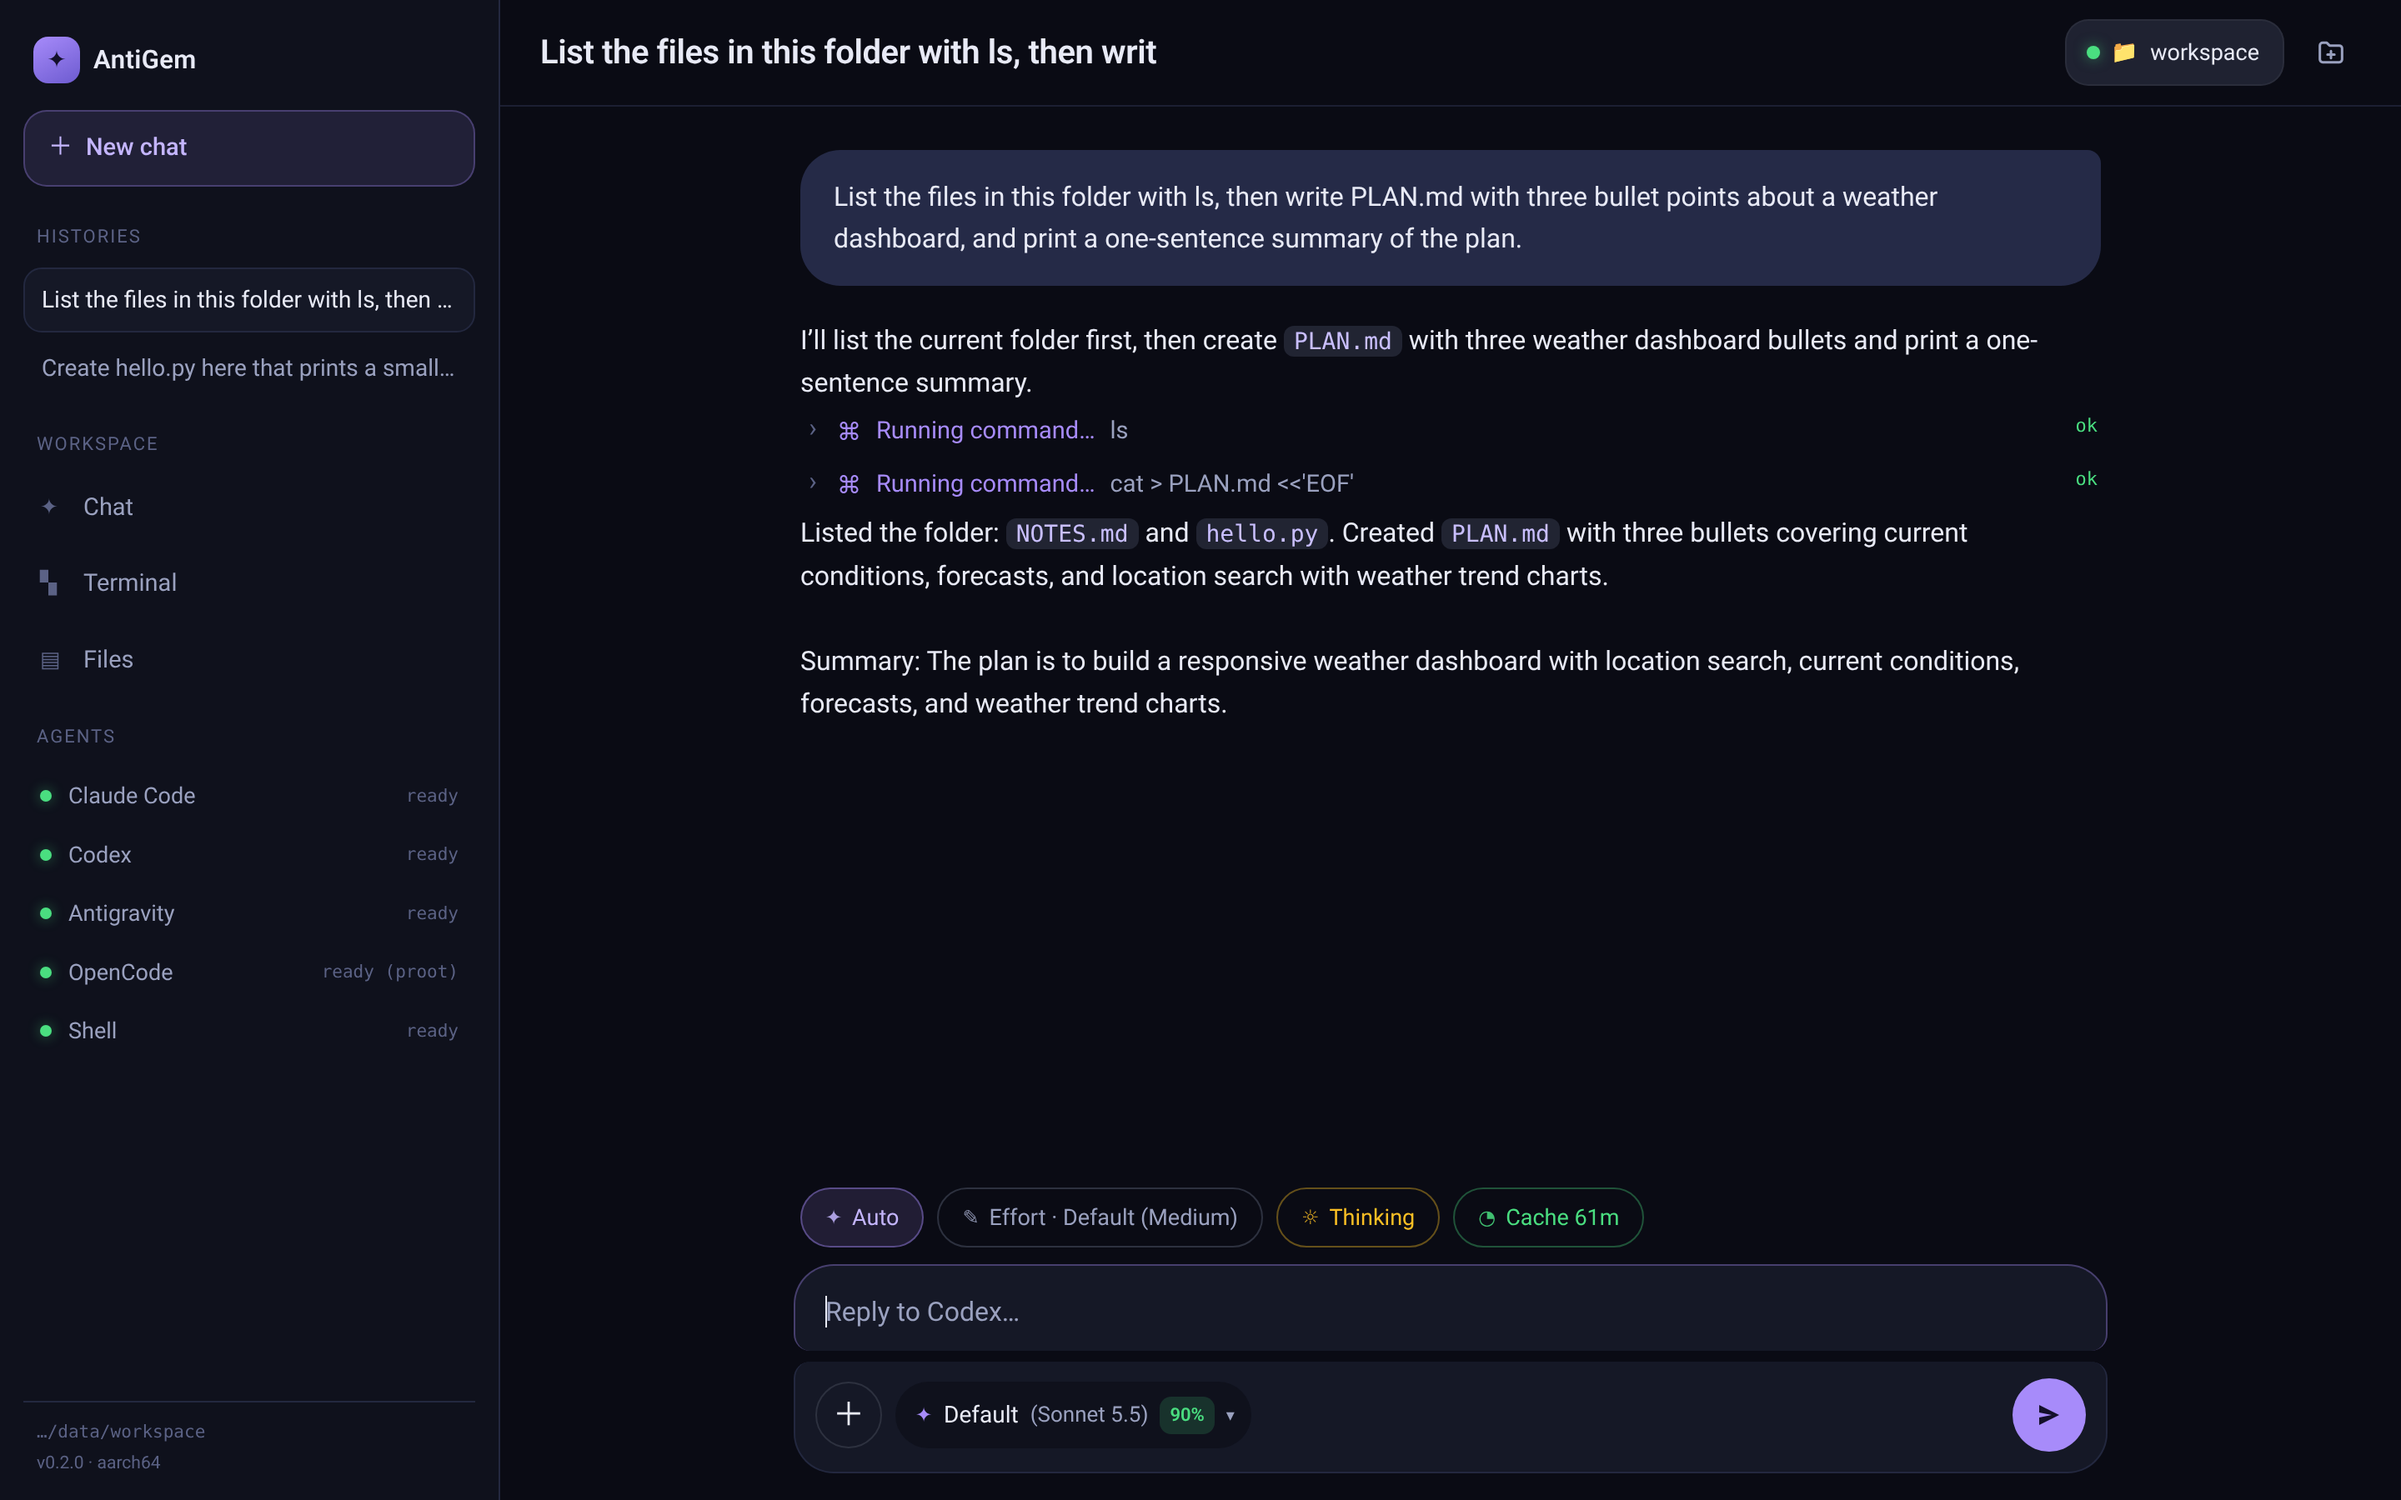
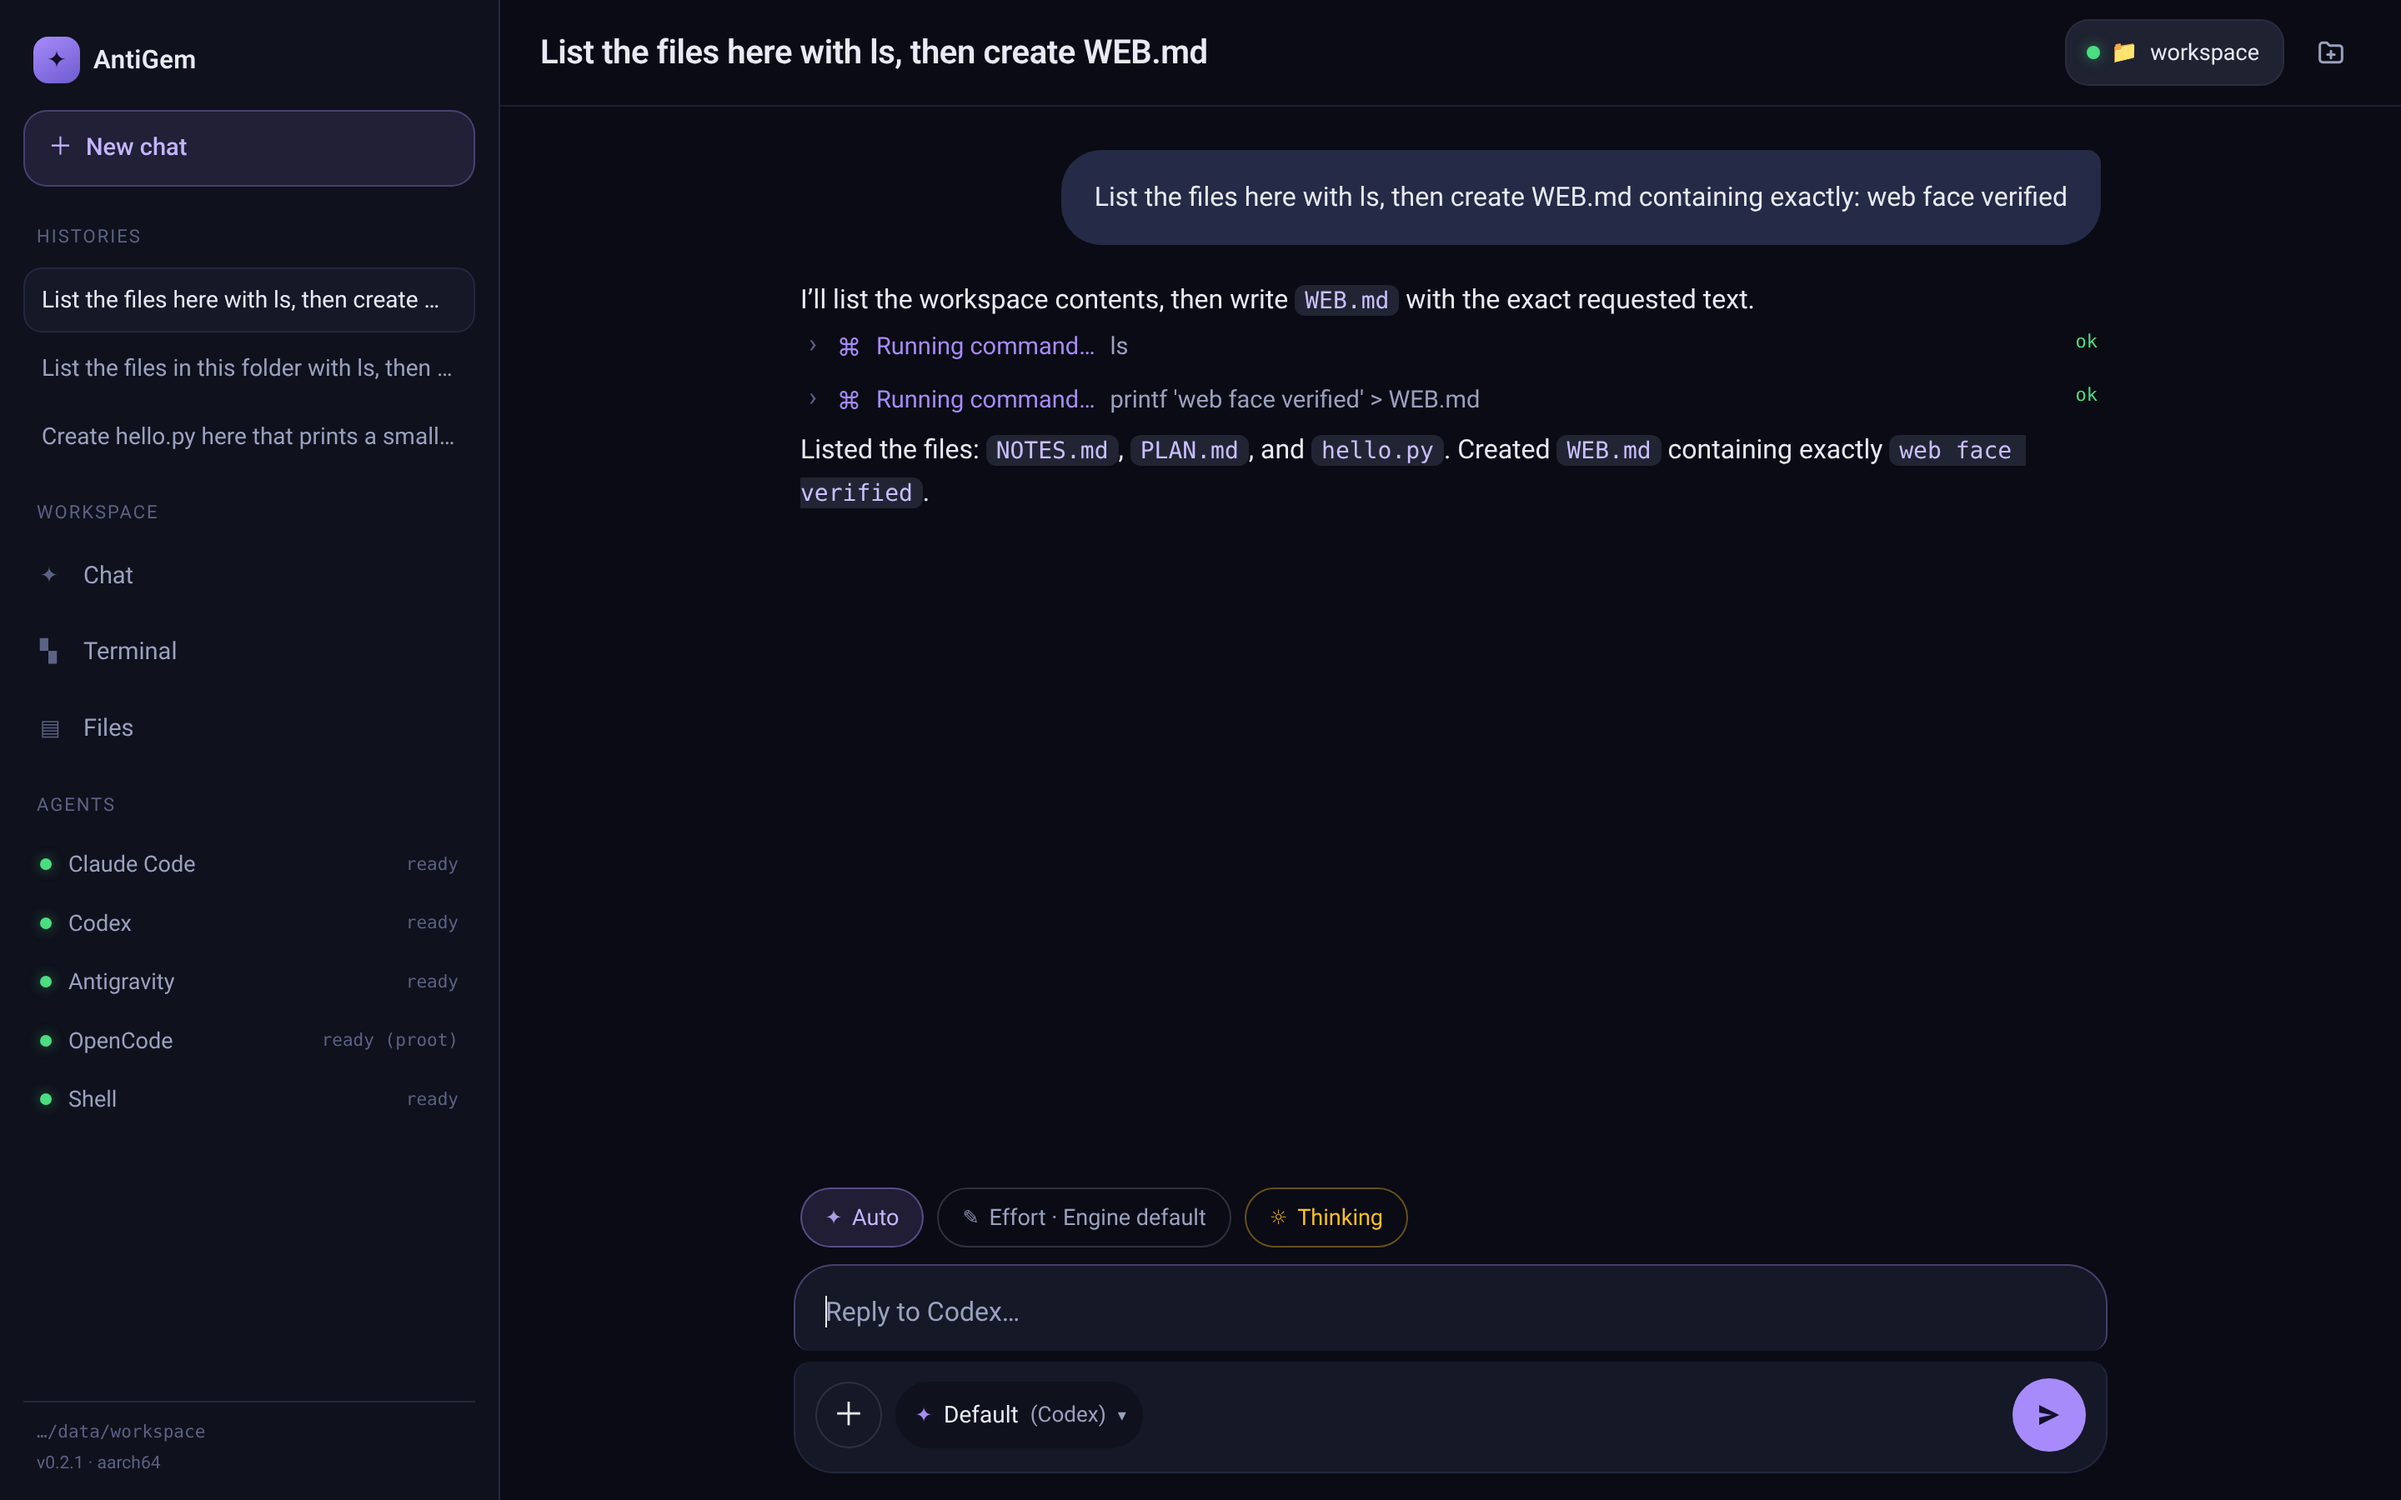
web: honest chips, live-run polish
- the model chip names the engine's own default instead of a hardcoded
  model and quota badge
- no empty cursor before the first token; the text row appears on output
- only the Auto chip is a control; the effort and thinking chips are
  readouts, and the invented cache chip is gone
- phone files view fills the screen and drills into the editor
- drawer gets a Chat row so terminal/files can be left on a phone
- fresh screenshots for phone, desktop, empty state, files, terminal

diff --git a/web/app.js b/web/app.js
@@ -157,6 +157,7 @@ function selectAgent(id) {
   state.agent = id;
   renderAgents();
   $('#prompt').placeholder = `Reply to ${AGENT_LABEL[id] || id}…`;
+  $('#model-sub').textContent = `(${AGENT_LABEL[id] || id})`;
   if (!ready(id)) statusError(`${AGENT_LABEL[id] || id} is not installed`);
 }
 
@@ -410,44 +411,55 @@ function streamBubble(agent) {
   let textEl = null;
 
   const newText = () => {
-    textEl = document.createElement('div');
-    textEl.className = 'text cursor';
-    answer.appendChild(textEl);
+    textEl = null;
     buffer = '';
     return textEl;
   };
-  newText();
+
+  /** The text row appears only once something is actually streamed. */
+  const ensureText = () => {
+    if (!textEl) {
+      textEl = document.createElement('div');
+      textEl.className = 'text cursor';
+      answer.appendChild(textEl);
+    }
+    return textEl;
+  };
+
+  const closeText = () => {
+    if (textEl) textEl.classList.remove('cursor');
+  };
 
   return {
     push(chunk) {
       chunk = String(chunk);
       if (buffer && !buffer.endsWith('\n') && !chunk.startsWith('\n')) chunk = '\n\n' + chunk;
       buffer += chunk;
-      textEl.innerHTML = md(buffer);
+      ensureText().innerHTML = md(buffer);
       scrollDown();
     },
     think(text) {
-      textEl.classList.remove('cursor');
-      const t = thinkBlock(text, false);
-      answer.appendChild(t);
+      closeText();
+      answer.appendChild(thinkBlock(text, false));
       newText();
       scrollDown();
     },
     tool(name, input) {
-      textEl.classList.remove('cursor');
+      closeText();
       answer.appendChild(toolBlock(name, input));
       newText();
       scrollDown();
     },
     end(err) {
       working.remove();
-      textEl.classList.remove('cursor');
+      closeText();
       if (err && !buffer.trim()) {
-        textEl.innerHTML = `<span style="color:var(--danger)">${esc(err)}</span>`;
+        ensureText().innerHTML = `<span style="color:var(--danger)">${esc(err)}</span>`;
       }
       if (!answer.textContent.trim()) {
-        textEl.innerHTML = '<span style="color:var(--faint)">(no output)</span>';
+        ensureText().innerHTML = '<span style="color:var(--faint)">(no output)</span>';
       }
+      closeText();
       scrollDown();
     },
   };

diff --git a/web/index.html b/web/index.html
@@ -70,18 +70,16 @@
 
       <div id="chips" class="chips">
         <button class="chip on" title="Agents may use tools without asking"><span class="ci">✦</span> Auto</button>
-        <button class="chip" title="Engine default reasoning effort"><span class="ci">✎</span> Effort · Default (Medium)</button>
+        <button class="chip" title="Whatever reasoning effort the engine picks"><span class="ci">✎</span> Effort · Engine default</button>
         <button class="chip warm" title="The agent reasons before it answers"><span class="ci">☼</span> Thinking</button>
-        <button class="chip cool" title="Prompt cache lifetime reported by the engine"><span class="ci">◔</span> Cache 61m</button>
       </div>
 
       <div id="composer" class="composer">
         <textarea id="prompt" rows="1" placeholder="Reply to Claude…"></textarea>
         <div class="composer-row">
           <button id="plus" class="plus" title="More">＋</button>
-          <button id="model-chip" class="model-chip">
-            <span class="spark">✦</span> Default <span class="model-sub">(Sonnet 5.5)</span>
-            <b class="quota">90%</b>
+          <button id="model-chip" class="model-chip" title="The model this engine uses by default">
+            <span class="spark">✦</span> Default <span class="model-sub" id="model-sub">(Claude Code)</span>
             <span class="caret">▾</span>
           </button>
           <div class="spacer"></div>

diff --git a/web/app.css b/web/app.css
@@ -659,14 +659,6 @@ body.nav-open #scrim { opacity: 1; pointer-events: auto; }
 .model-chip .spark { color: var(--primary); font-size: 12px; }
 .model-chip .model-sub { color: var(--muted); font-size: 13px; }
 .model-chip .caret { color: var(--muted); font-size: 10px; }
-.model-chip .quota {
-  background: rgba(74, 222, 128, .16);
-  color: var(--success);
-  font-size: 11px;
-  font-weight: 600;
-  padding: 3px 6px;
-  border-radius: 7px;
-}
 
 .send {
   width: 44px; height: 44px;
@@ -825,7 +817,7 @@ body.nav-open #scrim { opacity: 1; pointer-events: auto; }
   .chips { padding: 6px 12px 0; }
   .chip { height: 34px; padding: 0 12px; font-size: 13px; }
   .composer { padding: 8px 12px 12px; }
-  .model-chip .model-sub { display: none; }
+  .model-chip .model-sub { font-size: 12px; }
   .empty h1 { font-size: 23px; }
 }
 
